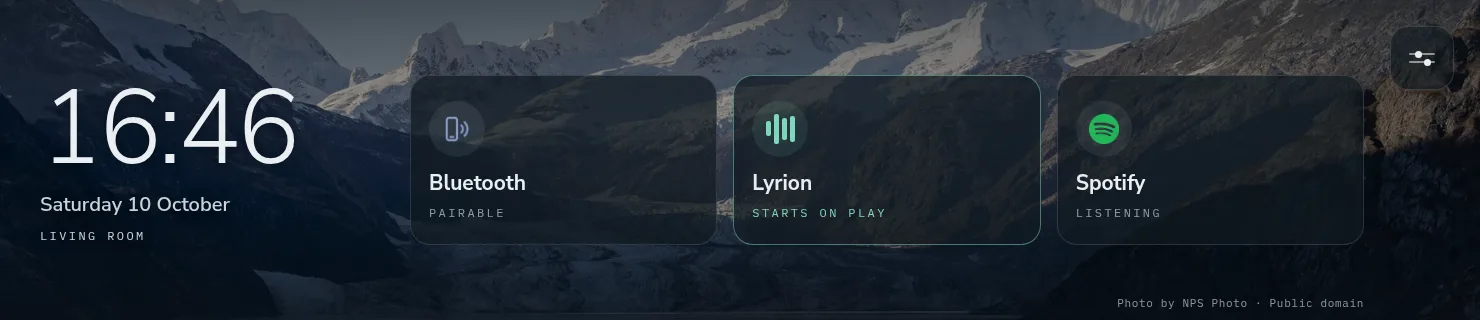
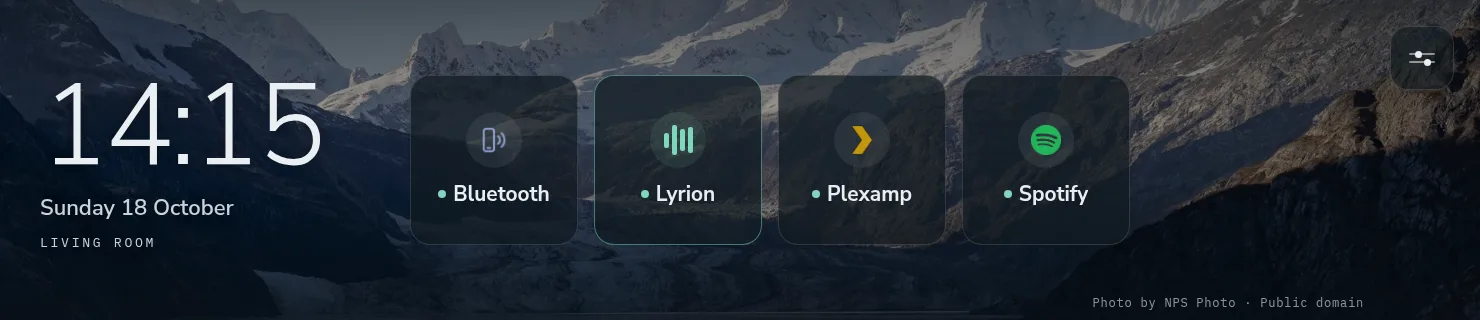
Docs: the waiting screen's new tiles; manual pictures retaken
Manual text and both waiting-screen pictures (panel and bar), taken
through the demo front: public-domain wallpaper, the name Living Room,
no private plugin. Technical guide and design/IMPLEMENTED-DIFFERENTLY.md.

diff --git a/docs/tech/ui.md b/docs/tech/ui.md
@@ -354,8 +354,11 @@ scale factor) was tried first and set aside: the layouts are drawn for a
 `lms_enabled` is off and nothing is active: `Backdrop` behind a veil, the
 clock, date and device name top left (`waiting_clock`), the line *Start
 music from your phone* (`waiting_hint`, never on a bar), and a tile per
-renderer in `$sources` that `availability` marks waiting - `SourceMark`,
-its manifest name and status. The picture's credit sits at the foot. With
+renderer in `$sources` that `availability` marks waiting - `SourceMark`
+with its manifest name under it and a dot for ready, 168 px wide on every
+screen (George, 2026-10-18: five sources cut the names and status lines); a
+long name takes a second line, and the manifest's status line is the tile's
+title and accessible label. The picture's credit sits at the foot. With
 every source off it says so, and the Settings button stays in the corner.
 Tiles are a translucent plate: ADR-0041 bans live backdrop blur.
 

diff --git a/design/IMPLEMENTED-DIFFERENTLY.md b/design/IMPLEMENTED-DIFFERENTLY.md
@@ -371,3 +371,14 @@ steps follow what the device sees:
 - **Review → Change → Continue returns to Review** for every step.
 - **Finish** shows *"<name> is joining your network"*, the address
   `http://<name>.local:8090`, and what happens if the password is wrong.
+
+## The waiting screen's tiles: a mark, a name, a dot (2026-10-18)
+
+The design draws each waiting source as a wide tile, the mark on the left
+and the name and status line beside it, sharing the screen's width. With
+five sources on the 10.1" the names and status lines were cut ("Blue…",
+"Starts …"). George: *"Let's make it generic and go with 2"* - on every
+screen, each tile is the mark with the name under it and a teal dot for
+ready, 168 px wide; the status line is the tile's title and label. A dot is
+all a state can be here: only sources that can be played are drawn.
+

diff --git a/docs/manual/README.md b/docs/manual/README.md
@@ -51,7 +51,7 @@ strip at the bottom. The row of cards scrolls sideways.*
 **With the Lyrion client switched off** there is no library, and the
 panel's home is the **waiting screen**: the clock, the date and the player's
 name over the same picture as the idle screen, and a tile for each source
-waiting to be played to - its state under its name. Start music from a phone
+waiting to be played to - its mark, its name under it, and a dot: ready. Start music from a phone
 and the panel moves to Now Playing. Settings is the button in the top right
 corner.
 
